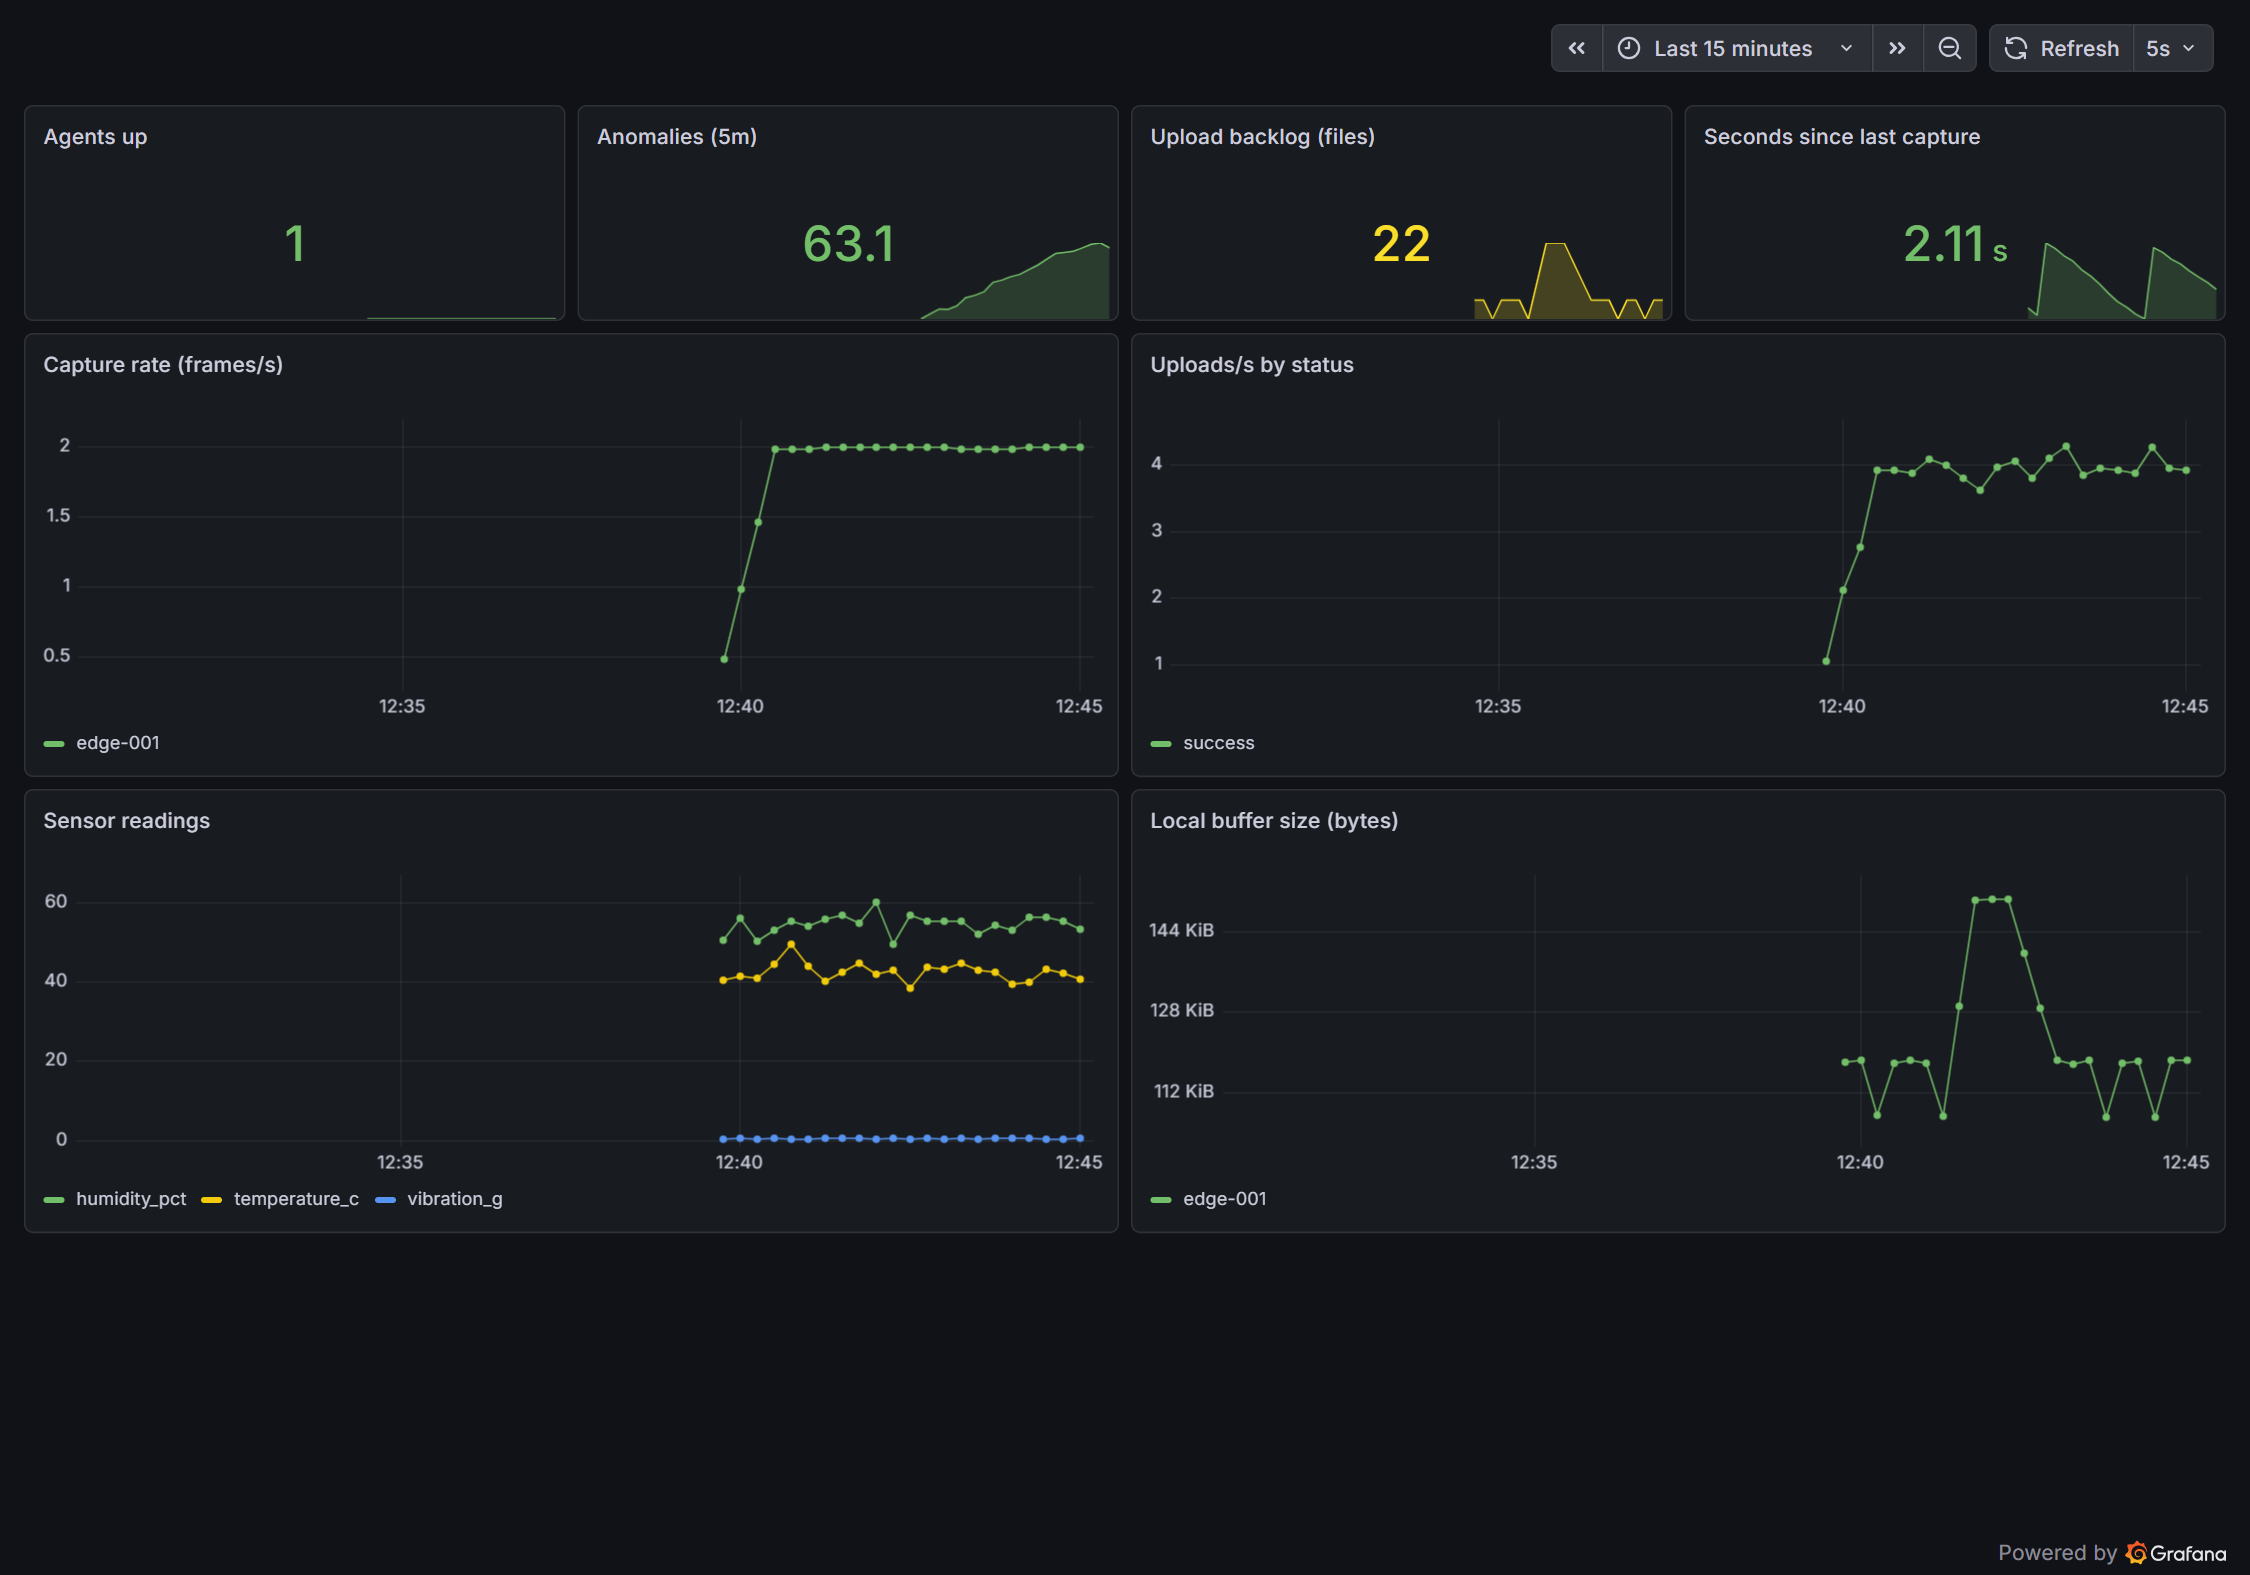
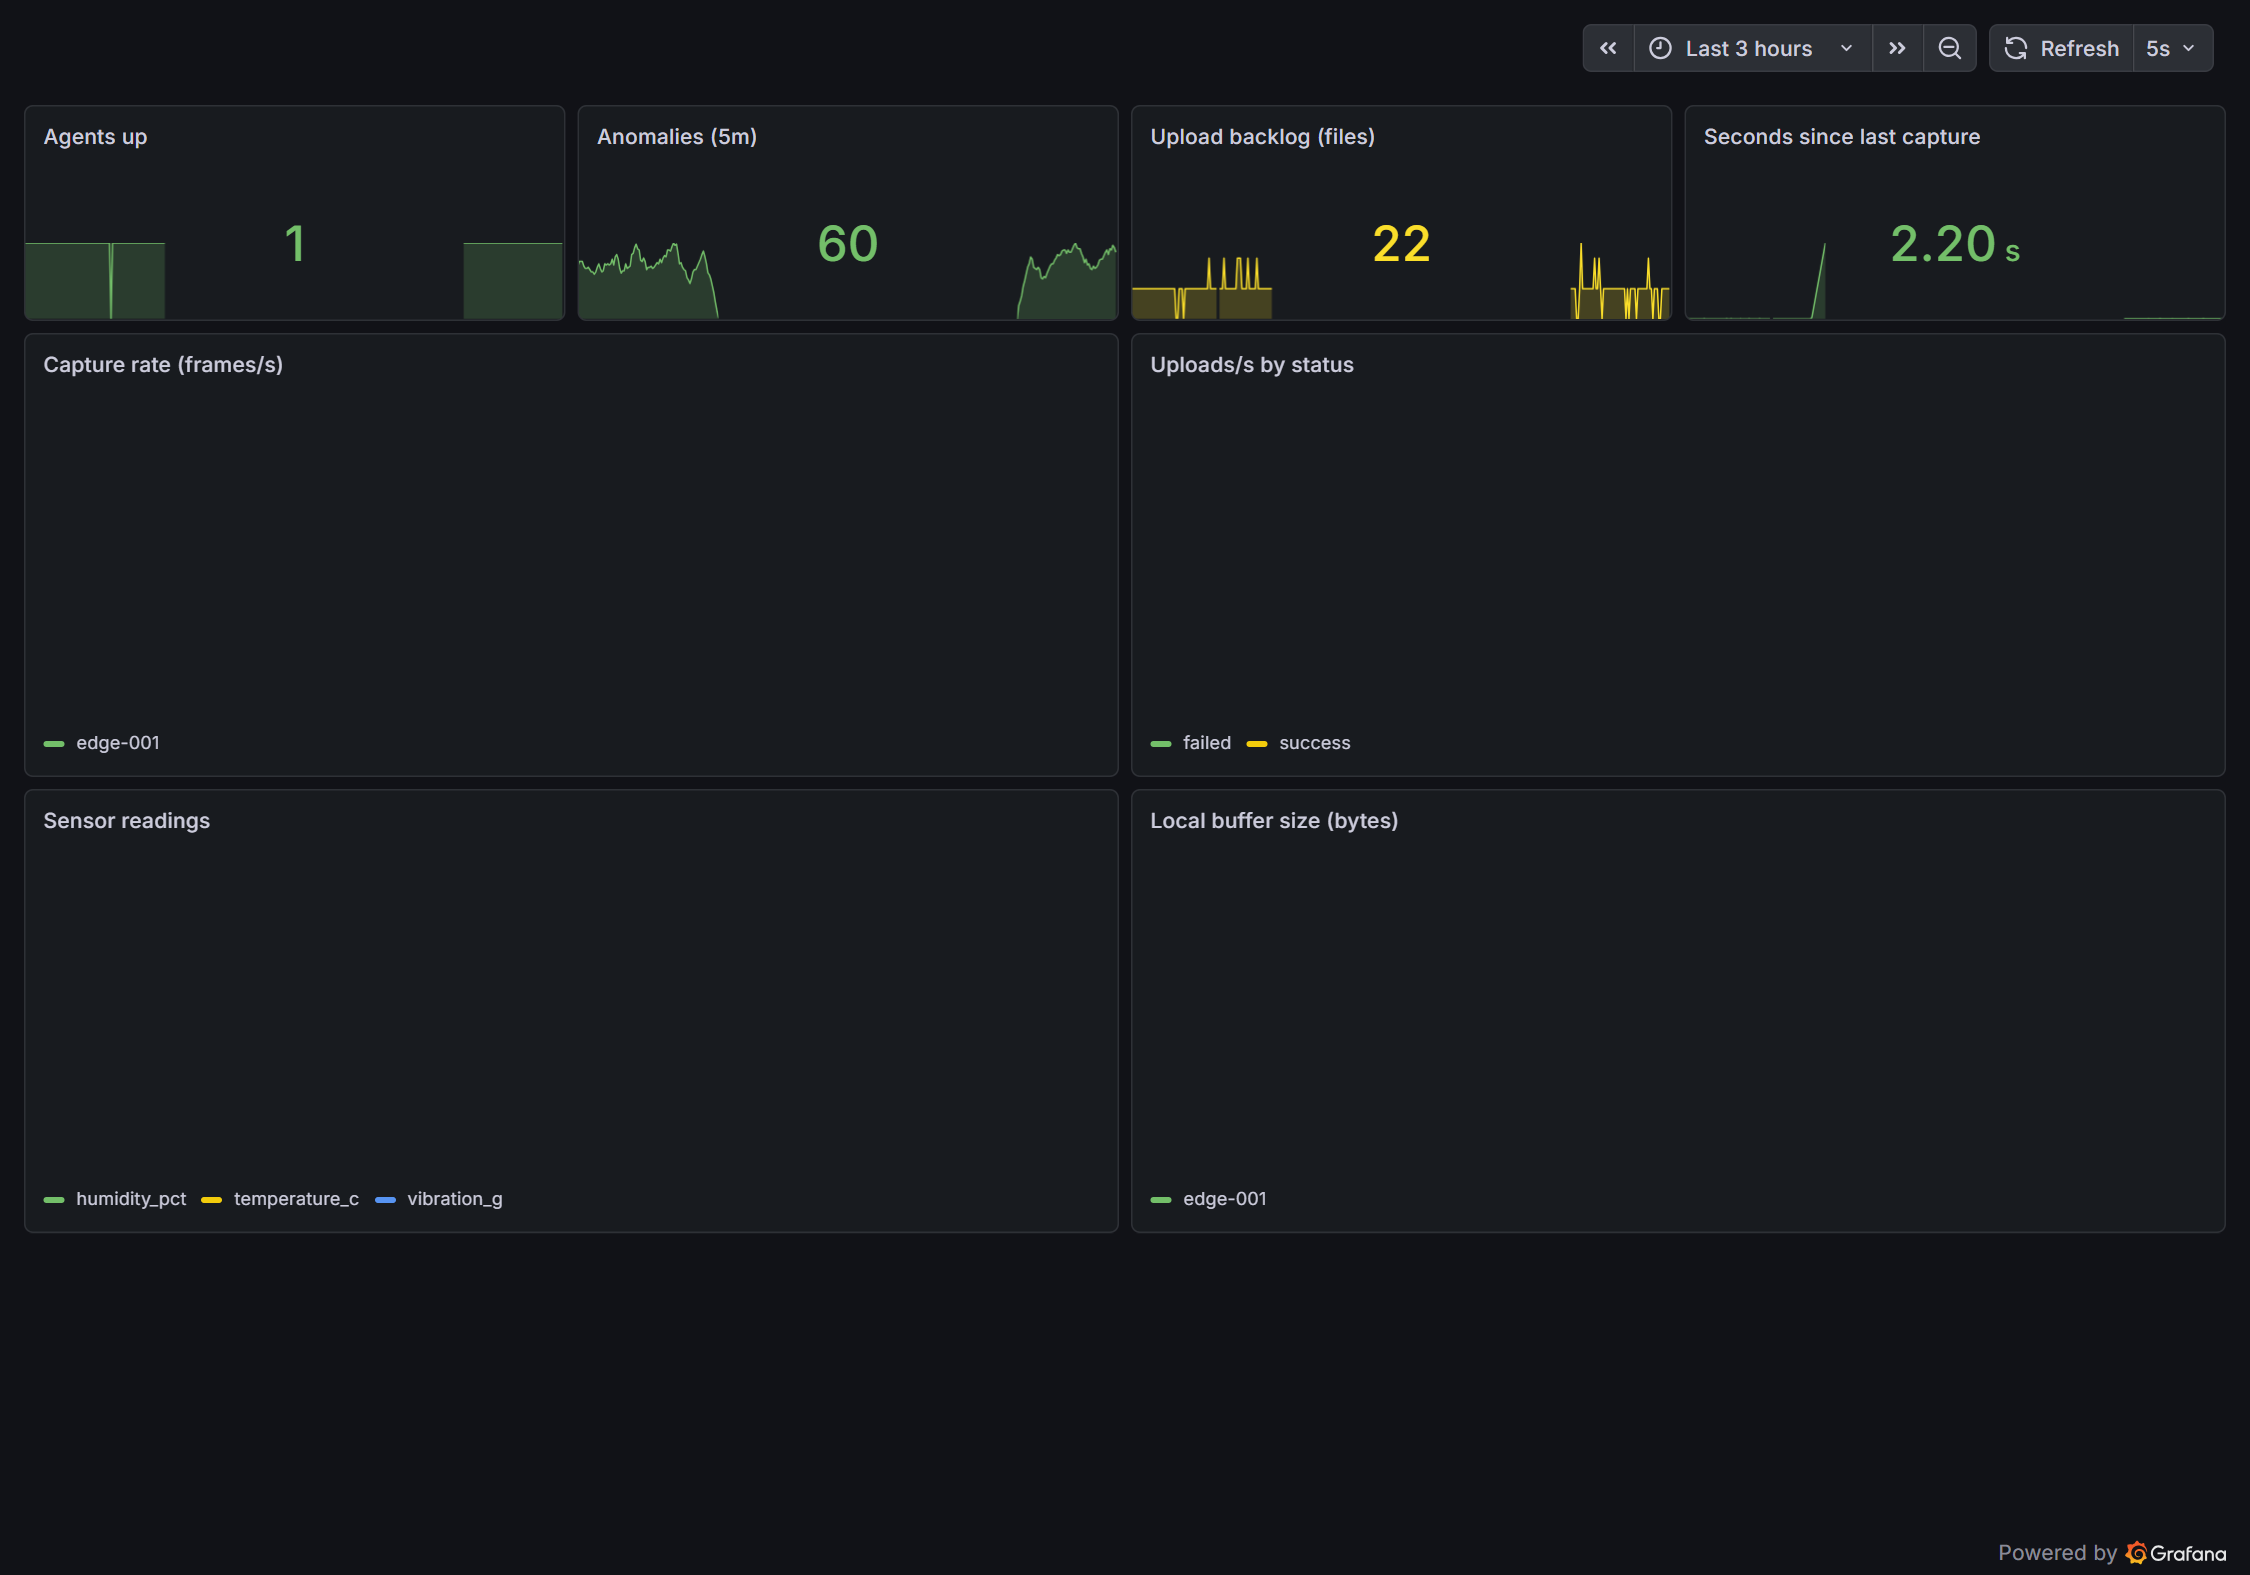
fix(pipeline): make extract memory-bounded + corrupt-object resilient; capture E2E run
Found by running end-to-end against ~85k live objects on an 8GB box:
- memory: bounded worker pool + chunked processing (EXTRACT_WORKERS/CHUNK/MAX_OBJECTS).
  The old 32-thread/all-futures design spiked the box to ~2MB free and rebooted it;
  the fixed extract holds ~68MB while processing 20k objects.
- robustness: fetch() now skips + counts corrupt/truncated objects (a partial upload left
  by the reboot was all-null-bytes and aborted the whole run via json.loads).

E2E results captured in docs/E2E-RUN.md + refreshed live Grafana screenshot:
20k objects extracted (2 corrupt skipped) -> dbt build 14 PASS; 4h capture-health
(hour 09 = 99%), 1,741 anomalies recovered; all 6 services healthy.

diff --git a/pipeline/extract.py b/pipeline/extract.py
@@ -20,12 +20,18 @@ from pathlib import Path
 import boto3
 import duckdb
 from botocore.config import Config
+from botocore.exceptions import ClientError
 
 ENDPOINT = os.getenv("S3_ENDPOINT", "http://127.0.0.1:9000")
 BUCKET = os.getenv("S3_BUCKET", "edge-data")
 KEY = os.getenv("S3_ACCESS_KEY", "minioadmin")
 SECRET = os.getenv("S3_SECRET_KEY", "minioadmin")
 PREFIX = os.getenv("DEVICE_PREFIX", "")  # "" = all devices
+# Bounded concurrency + chunking so a very large bucket can't blow up memory:
+# we keep at most CHUNK keys' futures and WORKERS in-flight bodies at a time.
+WORKERS = int(os.getenv("EXTRACT_WORKERS", "8"))
+CHUNK = int(os.getenv("EXTRACT_CHUNK", "2000"))
+MAX_OBJECTS = int(os.getenv("EXTRACT_MAX_OBJECTS", "0"))  # 0 = no cap; else most-recent N
 LANDING = Path(__file__).parent / "landing"
 LANDING.mkdir(exist_ok=True)
 
@@ -52,17 +58,38 @@ def main():
 
     # --- sensor readings: fetch JSON bodies concurrently, stage as NDJSON ---
     sensor_keys = [k for k, _ in _list(s3, "sensors")]
-    print(f"sensor objects: {len(sensor_keys)}", flush=True)
+    if MAX_OBJECTS:
+        sensor_keys = sorted(sensor_keys)[-MAX_OBJECTS:]  # most-recent N (keys sort chronologically)
+    print(f"sensor objects: {len(sensor_keys)} (workers={WORKERS}, chunk={CHUNK})", flush=True)
     ndjson = LANDING / "_sensors.ndjson"
 
     def fetch(key):
-        rec = json.loads(s3.get_object(Bucket=BUCKET, Key=key)["Body"].read())
+        # Tolerate corrupt/truncated objects (e.g. a partial upload left by a crash mid-write):
+        # skip them rather than aborting the whole run. Returns None on any read/parse failure.
+        try:
+            body = s3.get_object(Bucket=BUCKET, Key=key)["Body"].read()
+            rec = json.loads(body)
+        except (json.JSONDecodeError, UnicodeDecodeError, ValueError, ClientError):
+            return None
         rec["s3_key"] = key
         return json.dumps(rec)
 
-    with ndjson.open("w", encoding="utf-8") as fh, ThreadPoolExecutor(max_workers=32) as pool:
-        for line in pool.map(fetch, sensor_keys):
-            fh.write(line + "\n")
+    # Process in bounded chunks with a capped worker pool so we never materialize all
+    # object bodies / futures at once — the bucket can hold tens of thousands of objects.
+    written = skipped = 0
+    with ndjson.open("w", encoding="utf-8") as fh:
+        for i in range(0, len(sensor_keys), CHUNK):
+            chunk = sensor_keys[i:i + CHUNK]
+            with ThreadPoolExecutor(max_workers=WORKERS) as pool:
+                for line in pool.map(fetch, chunk):
+                    if line is None:
+                        skipped += 1
+                        continue
+                    fh.write(line + "\n")
+                    written += 1
+            print(f"  fetched {min(i + CHUNK, len(sensor_keys))}/{len(sensor_keys)}", flush=True)
+    if skipped:
+        print(f"skipped {skipped} corrupt/unreadable objects", flush=True)
 
     con = duckdb.connect()
     sensors_pq = (LANDING / "sensor_readings.parquet").as_posix()

diff --git a/docs/E2E-RUN.md b/docs/E2E-RUN.md
@@ -1,0 +1,62 @@
+# End-to-End Run — captured results
+
+A full run of the platform on a single machine (Windows, native processes — no Docker, no
+cloud account), exercising every stage with **real data at scale**. Run date: 2026-06-05.
+
+> Reproduce: `docker compose up -d --build` then `docker compose run --rm pipeline` (Docker),
+> or the native commands in the [README](../README.md). CI re-runs the pipeline + tests on every push.
+
+## What this run also fixed (found by running at scale)
+Running end-to-end against a bucket of **~85,000 objects** surfaced two real bugs, both fixed in
+[`pipeline/extract.py`](../pipeline/extract.py):
+
+1. **Memory blow-up.** The original extract used 32 worker threads and materialized *all* object
+   futures/bodies at once → on this 8 GB box it spiked free RAM to ~2 MB and the OS rebooted.
+   Fix: **bounded worker pool + chunked processing** (`EXTRACT_WORKERS`, `EXTRACT_CHUNK`,
+   `EXTRACT_MAX_OBJECTS`). Re-run footprint: the extract process held steady at **~68 MB** while
+   processing 20 k objects.
+2. **Corrupt-object crash.** One sensor object was an all-null-byte truncated body (a partial
+   upload left when the machine rebooted mid-write); `json.loads` aborted the whole run. Fix:
+   **`fetch` skips + counts unreadable objects** instead of failing the batch. The re-run skipped
+   **2** corrupt objects and completed cleanly.
+
+## Stage-by-stage evidence
+
+| Stage | Component | Result |
+|------|-----------|--------|
+| 1 Capture | Edge agent (`:8000`) | live, `backend_online: true`; ~2 fps synthetic camera + 3 sensors |
+| 2 Store | MinIO (`:9000/9001`) | **42,771** sensor objects (+~42 k frames) under `edge-001/{frames,sensors}/Y/M/D/H/`; capture-time partitioning verified (`…/10/sensors_20260605T1030…`) |
+| 3 Metrics | Prometheus (`:9090`) | `up{job="edge-agents"}=1`, agent metrics scraped (incl. new `edge_buffer_evicted_total`) |
+| 4 Logs | Loki + Promtail (`:3100/:9080`) | events indexed: `agent_starting, backend_reconnected, sensor_anomaly, upload_batch` |
+| 5 Visualize | Grafana (`:3000`) | provisioned Prometheus+Loki datasources + *Edge Fleet* dashboard; live values — Agents up **1**, Anomalies/5m **60**, Upload backlog **22**, Seconds-since-capture **2.20s** (see screenshot) |
+| 6 Analytics | dbt + DuckDB | extract **20 k** objects in 70 s (2 corrupt skipped) → `dbt build` **14 PASS** in 16 s |
+
+![Edge Fleet dashboard](../observability/grafana-dashboard.png)
+
+## Pipeline output (marts, real 20 k-object run)
+
+**`mart_capture_health`** — realized capture completeness per hour:
+
+| hour (UTC) | readings | frames | expected | capture_rate_% |
+|---|---|---|---|---|
+| 08:00 | 4090 | 7176 | 7200 | 56.8 |
+| 09:00 | 7126 | 7126 | 7200 | **99.0** |
+| 10:00 | 4168 | 4170 | 7200 | 57.9 |
+| 12:00 | 4614 | 4712 | 7200 | 64.1 |
+
+**`mart_sensor_quality`** — e.g. temperature_c avg ≈ 44.6 °C, max 187 (injected spikes);
+humidity max ≈ 240; vibration max ≈ 2.1. (`assert_no_missing_sensor_values` → 0 nulls.)
+
+**`mart_anomalies`** — **1,741** readings flagged by robust z-score (median+MAD), ~8.7 % of
+readings ≈ `ANOMALY_RATE 0.03 × 3 sensors`; max |z| ≈ 67. Independently recovers the spikes the
+agent injects, reconciling batch detection against the live `edge_sensor_anomaly_total` metric.
+
+## Final state
+All six services healthy (HTTP 200): agent · MinIO · Prometheus · Grafana · Loki · Promtail.
+
+## Notes / constraints
+- This 8 GB box can run the full stack **or** a full-bucket extract, but the heavy extract should
+  not run alongside peak observability load — that's what the memory fix addresses (now bounded to
+  ~68 MB) and why this run capped the extract at 20 k objects. On real hardware/EKS this is a non-issue.
+- The dashboard screenshot's stat panels show live values; the time-series panels render their
+  series in the live UI (http://localhost:3000) — headless capture occasionally clips slow panels.

diff --git a/README.md b/README.md
@@ -23,7 +23,8 @@ shape of a real sensor-data-collection operation — and to run **entirely local
                                                                anomalies
 ```
 Three deploy targets, same components: **Docker Compose**, **native processes** (no Docker),
-and **Kubernetes** (`k8s/` — k3s locally, EKS-portable).
+and **Kubernetes** (`k8s/` — k3s locally, EKS-portable). A full captured run (every stage, real
+data at scale) is in [docs/E2E-RUN.md](docs/E2E-RUN.md).
 
 ## Quick start (Docker — zero hardware)
 ```bash

diff --git a/pipeline/README.md b/pipeline/README.md
@@ -8,7 +8,7 @@ open-source analogue of a Glue/Athena transform layer: `MinIO→S3`, `DuckDB→A
 ## Flow
 ```
 S3 (edge-data/{device}/sensors|frames/...)            many tiny JSON/JPEG objects
-        │  extract.py  (boto3, 32-way concurrent, compaction)
+        │  extract.py  (boto3, bounded concurrency + chunking, compaction)
         ▼
 landing/sensor_readings.parquet   landing/frame_index.parquet
         │  dbt run   (DuckDB)
